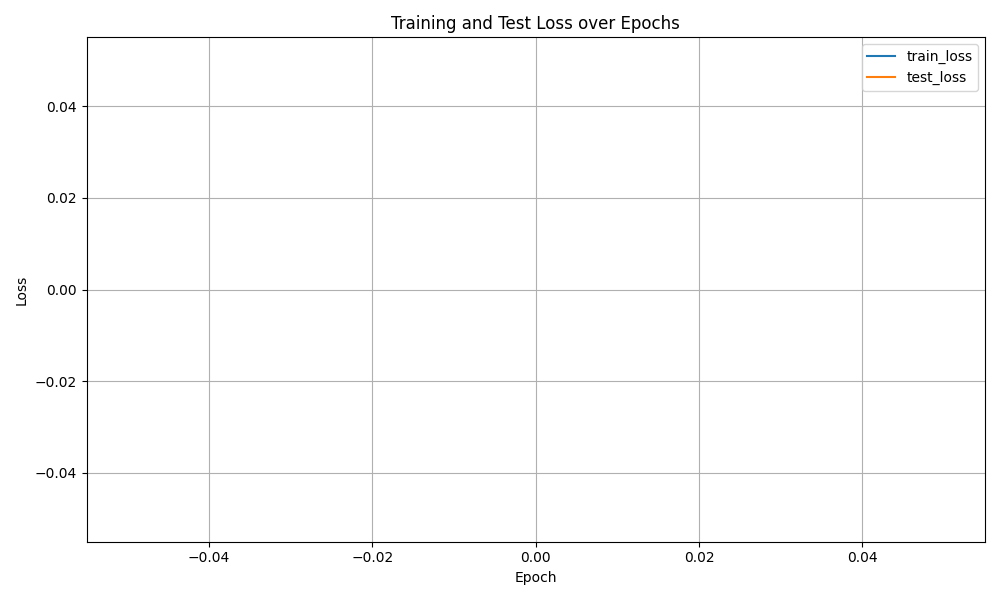
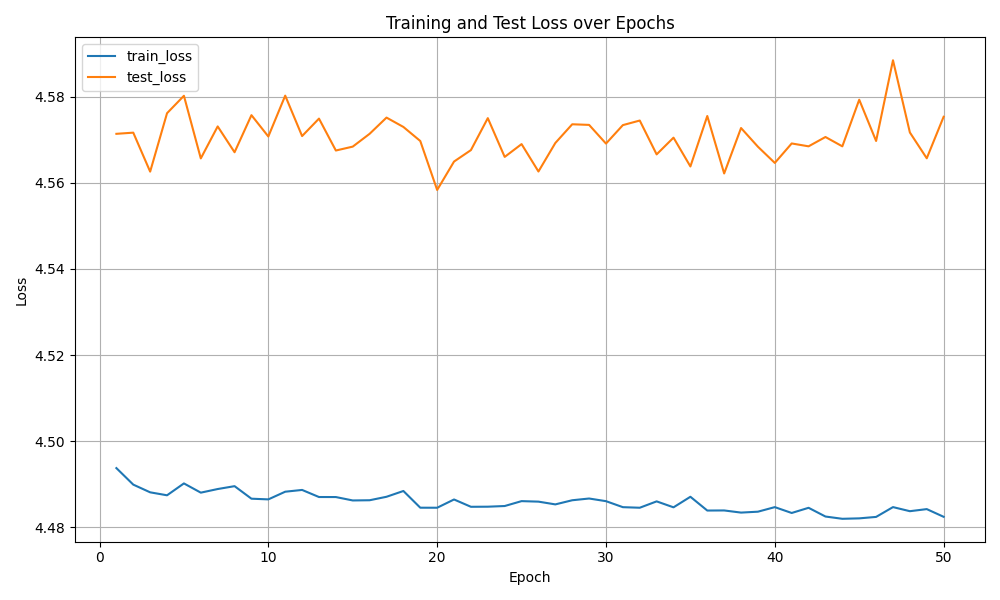
init

diff --git a/main.py b/main.py
@@ -11,7 +11,7 @@ config = {
     'run_eda': False,
 
     'batch_size': 128,
-    'epochs': 100,
+    'epochs': 50,
     'lr': 1e-4,
     'weight_decay': 3e-4,
     'input_size': (640, 640),
